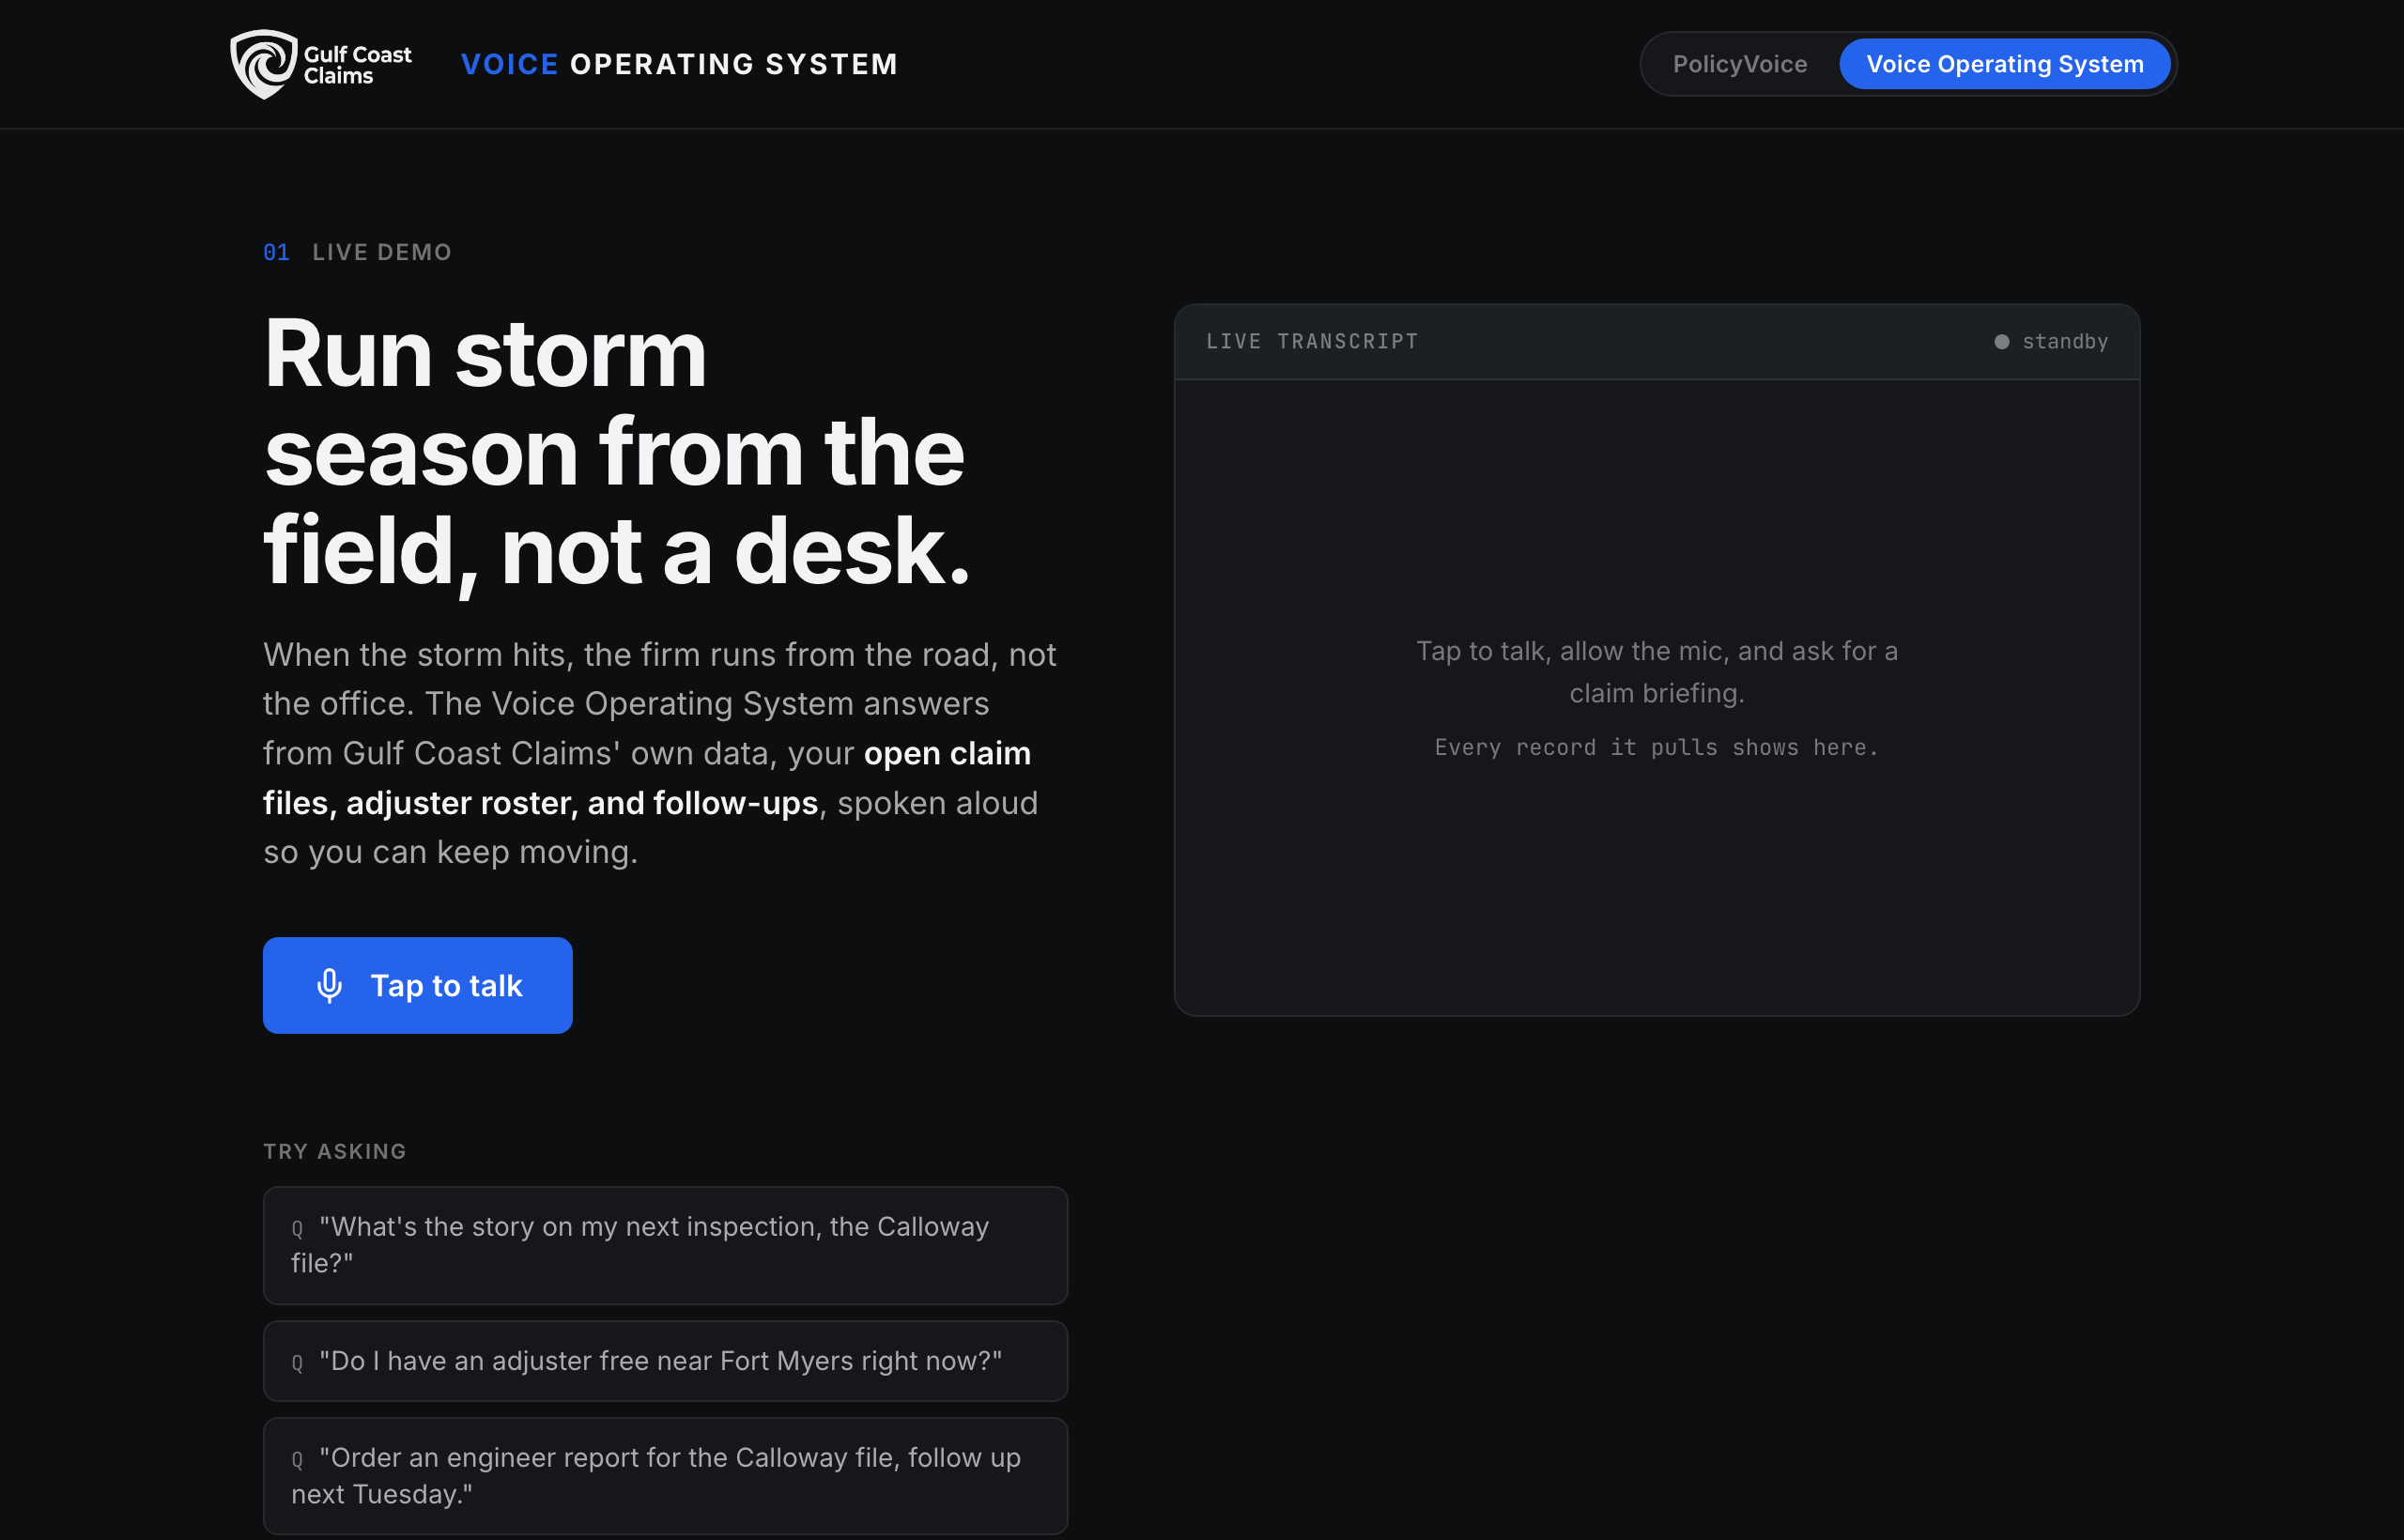
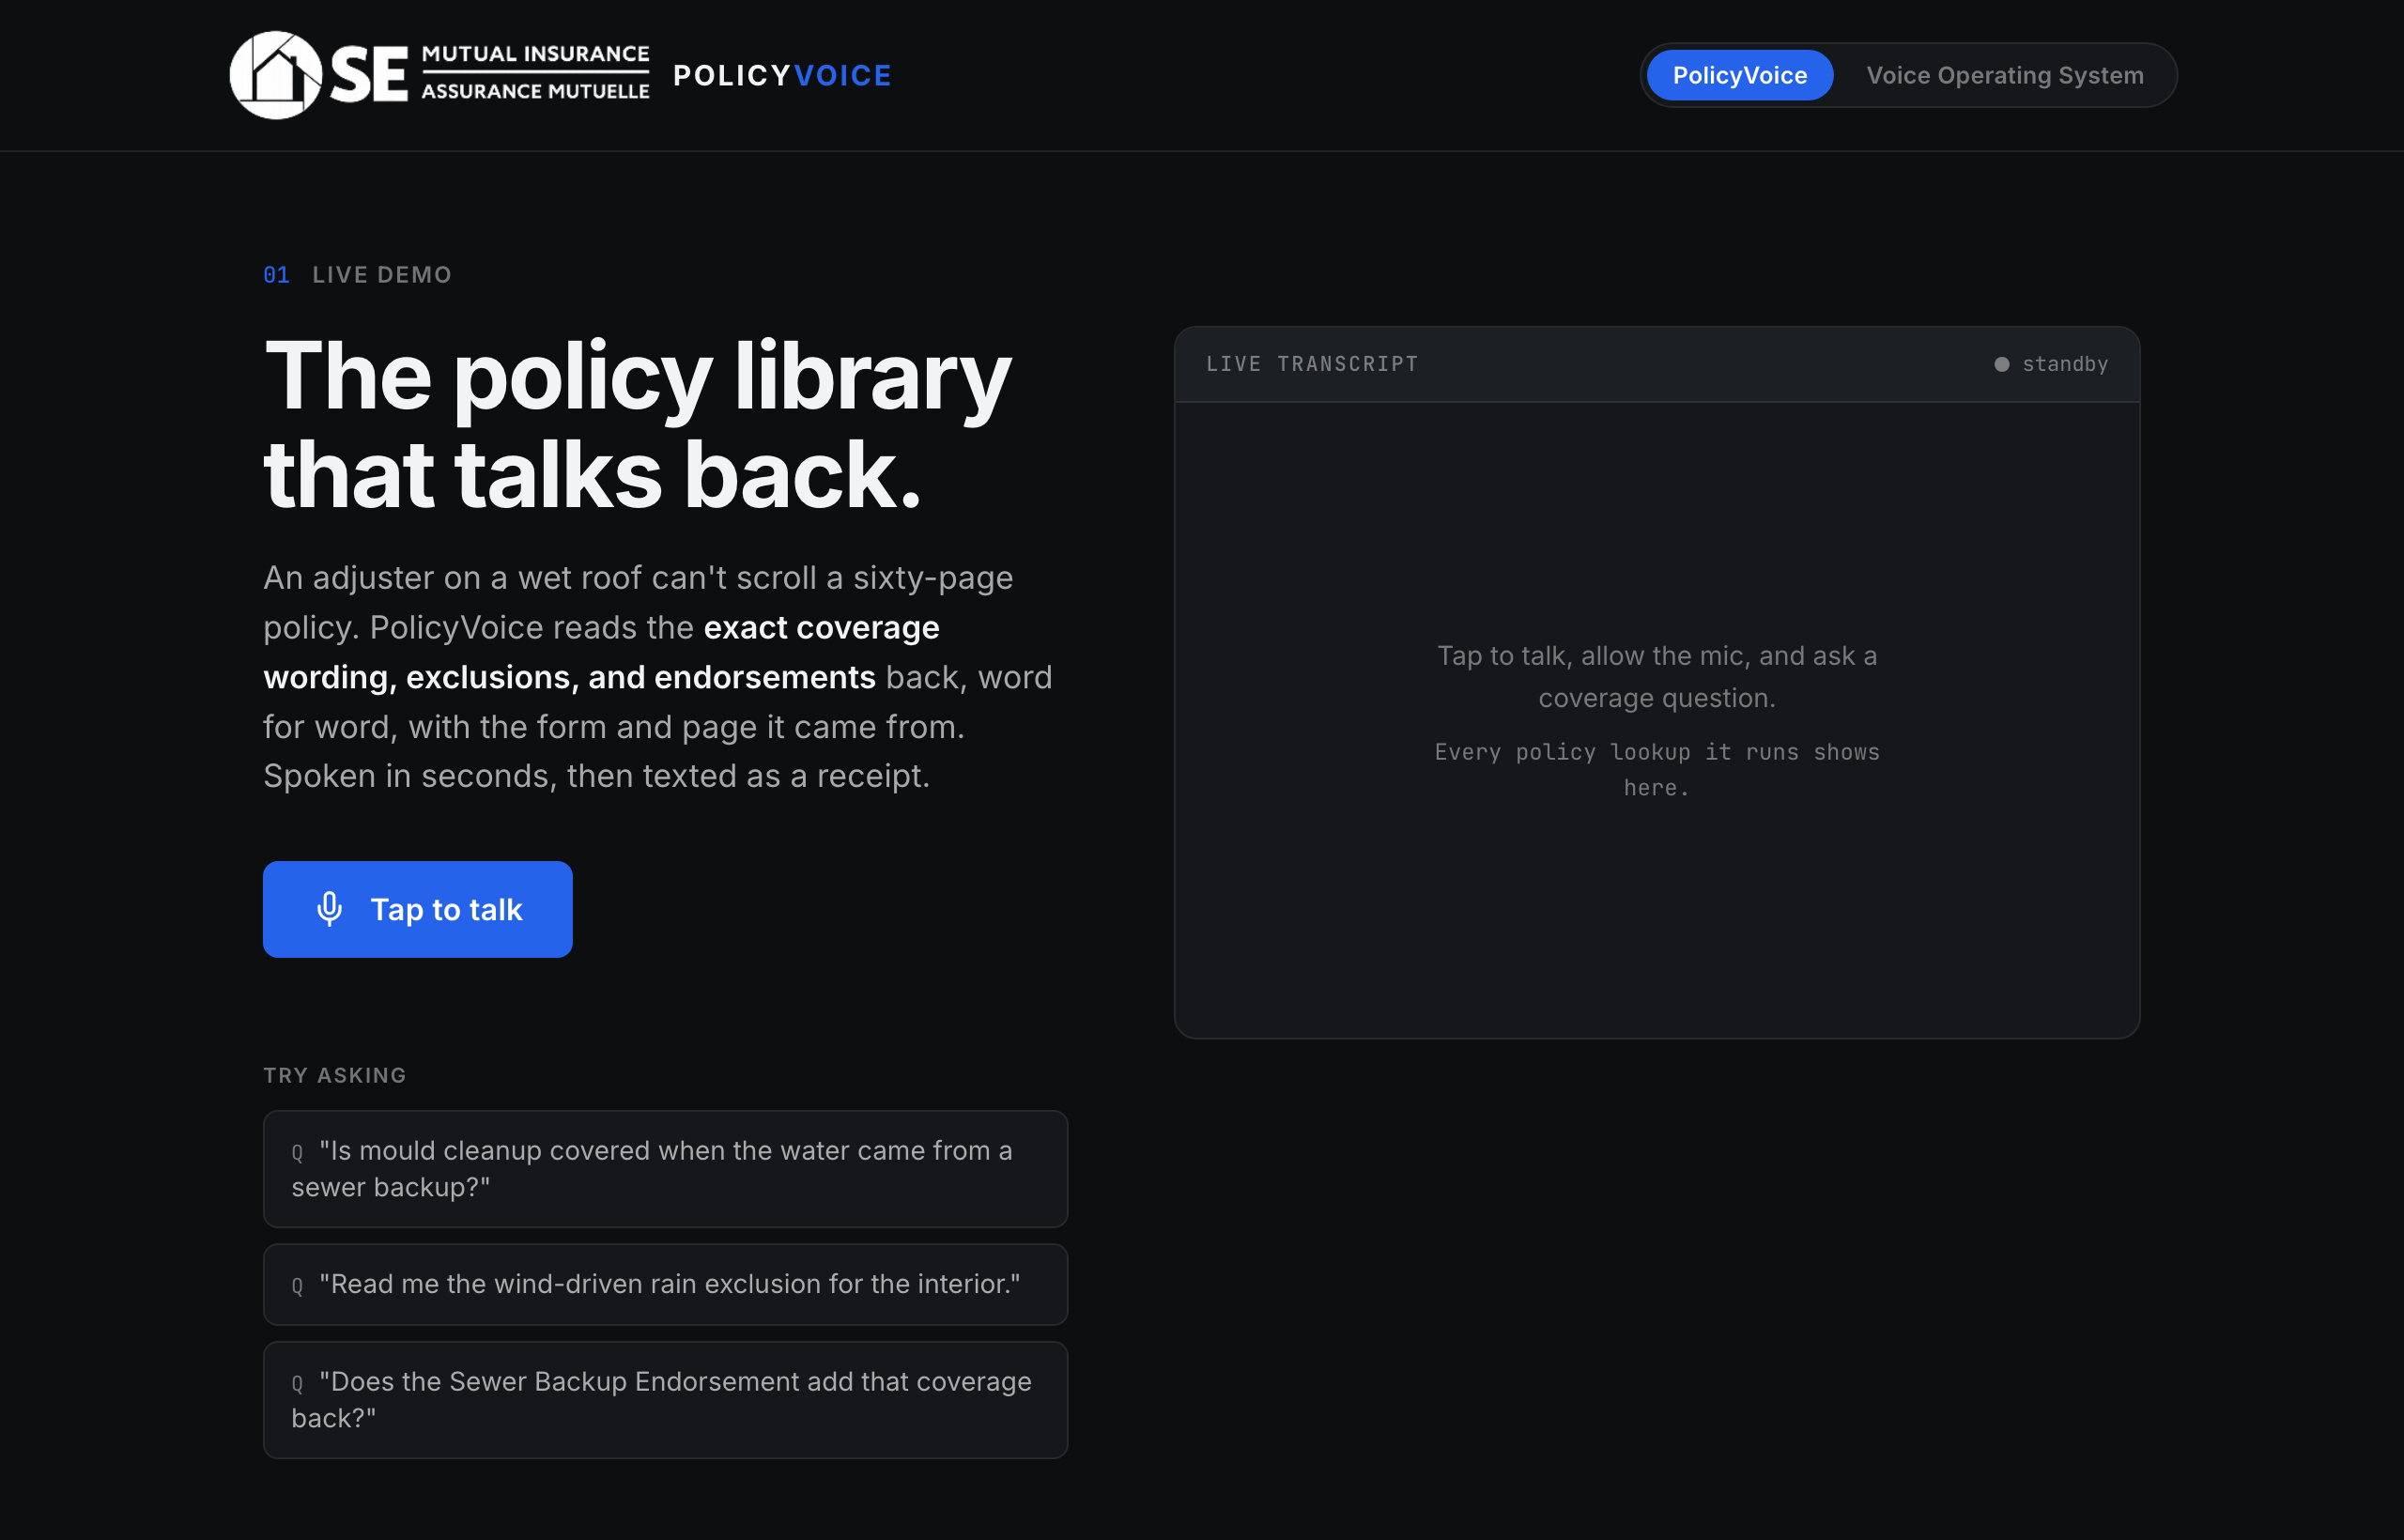
Rebrand to SE Mutual (Atlantic Canada) for persona consistency
Align the whole demo to the real policy it reads (SE Mutual NB homeowner
policy), replacing the Gulf Coast / Florida persona:

- SE Mutual logo in the header (flat source, made transparent + trimmed).
- Org, page copy, Voice OS prompt, configure examples, and docs now SE Mutual.
- Voice OS claims data are SE Mutual policies (homeowner + farm), Maritime
  locations, claim prefix SEM-; roster relicensed to NB/NS/PEI.
- Removed em-dashes from shipped page text (per preference).
- README screenshot recaptured.

diff --git a/index.html b/index.html
@@ -5,7 +5,7 @@
   <meta name="viewport" content="width=device-width, initial-scale=1.0" />
   <meta name="color-scheme" content="dark" />
   <meta name="theme-color" content="#0D0E10" />
-  <title>PolicyVoice — The policy library that talks back.</title>
+  <title>PolicyVoice: The policy library that talks back.</title>
   <meta name="description" content="PolicyVoice is a live demo of voice access to insurance policy wording: coverage clauses, exclusions, and endorsements, read back word for word for adjusters in the field." />
   <link rel="preconnect" href="https://fonts.googleapis.com" />
   <link rel="preconnect" href="https://fonts.gstatic.com" crossorigin />
@@ -65,7 +65,7 @@
       text-transform: uppercase;
     }
     .wordmark .vc { color: var(--accent); }
-    .wordmark .brand-logo { height: 40px; width: auto; display: block; }
+    .wordmark .brand-logo { height: 52px; width: auto; display: block; }
     .header-tag {
       font-family: var(--mono); font-size: 11px;
       letter-spacing: 0.04em;
@@ -343,7 +343,7 @@
 
   <header>
     <div class="wrap header-inner">
-      <div class="wordmark" id="wordmark"><img class="brand-logo" src="assets/gulf-coast-claims-logo.png" alt="Gulf Coast Claims" /><span class="brand-name">Policy<span class="vc">Voice</span></span></div>
+      <div class="wordmark" id="wordmark"><img class="brand-logo" src="assets/se-mutual-logo.png" alt="SE Mutual Insurance" /><span class="brand-name">Policy<span class="vc">Voice</span></span></div>
       <div class="tabs" role="tablist">
         <button class="tab active" id="tab-shopvoice" role="tab" onclick="showView('shopvoice')">PolicyVoice</button>
         <button class="tab" id="tab-invan" role="tab" onclick="showView('invan')">Voice Operating System</button>
@@ -365,7 +365,7 @@
         <div class="hero-grid">
           <div>
             <h1>The policy library that talks back.</h1>
-            <p class="lede">An adjuster on a wet roof can't scroll a sixty-page policy. PolicyVoice reads the <strong>exact coverage wording, exclusions, and endorsements</strong> back — word for word, with the form and page it came from — spoken in seconds, then texted as a receipt.</p>
+            <p class="lede">An adjuster on a wet roof can't scroll a sixty-page policy. PolicyVoice reads the <strong>exact coverage wording, exclusions, and endorsements</strong> back, word for word, with the form and page it came from. Spoken in seconds, then texted as a receipt.</p>
 
             <div class="mic-row">
               <button id="sv-callBtn" class="mic-btn" onclick="toggleCall('shopvoice')">
@@ -495,7 +495,7 @@
         <div class="hero-grid">
           <div>
             <h1>Run storm season from the field, not a desk.</h1>
-            <p class="lede">When the storm hits, the firm runs from the road, not the office. The Voice Operating System answers from Gulf Coast Claims' own data, your <strong>open claim files, adjuster roster, and follow-ups</strong>, spoken aloud so you can keep moving.</p>
+            <p class="lede">When the storm hits, the claims team runs from the road, not the office. The Voice Operating System answers from SE Mutual's own data, your <strong>open claim files, adjuster roster, and follow-ups</strong>, spoken aloud so you can keep moving.</p>
 
             <div class="mic-row">
               <button id="iv-callBtn" class="mic-btn" onclick="toggleCall('invan')">
@@ -508,7 +508,7 @@
             <div class="try-label">Try asking</div>
             <div class="chips">
               <button class="chip" onclick="chipTap('invan')"><span class="q">Q</span>"What's the story on my next inspection, the Calloway file?"</button>
-              <button class="chip" onclick="chipTap('invan')"><span class="q">Q</span>"Do I have an adjuster free near Fort Myers right now?"</button>
+              <button class="chip" onclick="chipTap('invan')"><span class="q">Q</span>"Do I have an adjuster free near Moncton right now?"</button>
               <button class="chip" onclick="chipTap('invan')"><span class="q">Q</span>"Order an engineer report for the Calloway file, follow up next Tuesday."</button>
             </div>
           </div>
@@ -550,7 +550,7 @@
                 <div class="avatar">VO</div>
                 <div>
                   <div class="pb-name">Voice Operating System</div>
-                  <div class="pb-sub">Gulf Coast Claims data</div>
+                  <div class="pb-sub">SE Mutual claims data</div>
                 </div>
               </div>
               <div class="chat" id="iv-chatThread">
@@ -560,7 +560,7 @@
                 <div class="tray-label">Tap to send a text</div>
                 <div class="tray-chips" id="iv-trayChips">
                   <button class="tray-chip" onclick="sendSim('invan', 0)"><span class="q">Q</span>What's the story on my next inspection, the Calloway file?</button>
-                  <button class="tray-chip" onclick="sendSim('invan', 1)"><span class="q">Q</span>Do I have an adjuster free near Fort Myers?</button>
+                  <button class="tray-chip" onclick="sendSim('invan', 1)"><span class="q">Q</span>Do I have an adjuster free near Moncton?</button>
                   <button class="tray-chip" onclick="sendSim('invan', 2)"><span class="q">Q</span>Order an engineer report for the Calloway file, follow up Tuesday.</button>
                 </div>
               </div>
@@ -589,7 +589,7 @@
           <div class="fit-row">
             <div>
               <h3 class="fit-name"><span class="idx">B</span>Storm-season deployment desk</h3>
-              <p class="fit-why">When your team swells from 75 to 300 adjusters across three states, it answers who's available, who's overloaded, and where the open files are, without anyone stopping to tap through a dashboard.</p>
+              <p class="fit-why">When your team swells from 75 to 300 adjusters across the Maritimes, it answers who's available, who's overloaded, and where the open files are, without anyone stopping to tap through a dashboard.</p>
             </div>
             <div class="fit-owner">
               <span class="routes">Routes to</span>
@@ -630,7 +630,7 @@
     const APPS = {
       shopvoice: {
         key: "shopvoice",
-        wordmark: '<img class="brand-logo" src="assets/gulf-coast-claims-logo.png" alt="Gulf Coast Claims" /><span class="brand-name">Policy<span class="vc">Voice</span></span>',
+        wordmark: '<img class="brand-logo" src="assets/se-mutual-logo.png" alt="SE Mutual Insurance" /><span class="brand-name">Policy<span class="vc">Voice</span></span>',
         speaker: "PolicyVoice",
         userLabel: "Adjuster",
         assistantId: "aaadf407-d963-42d7-9af9-94a165998c80",
@@ -663,7 +663,7 @@
       },
       invan: {
         key: "invan",
-        wordmark: '<img class="brand-logo" src="assets/gulf-coast-claims-logo.png" alt="Gulf Coast Claims" /><span class="brand-name"><span class="vc">Voice</span> Operating System</span>',
+        wordmark: '<img class="brand-logo" src="assets/se-mutual-logo.png" alt="SE Mutual Insurance" /><span class="brand-name"><span class="vc">Voice</span> Operating System</span>',
         speaker: "Voice OS",
         userLabel: "Operator",
         assistantId: "6a919715-972e-4993-a145-3ec11c668a36",
@@ -681,16 +681,16 @@
         sims: [
           { q: "What's the story on my next inspection, the Calloway file?",
             lookup: "Claim files",
-            a: "Claim GCC-2287, Calloway residence in Cape Coral. Insurer Citizens, HO-3 form. Wind and water loss from Hurricane Lina, reported October 9th. Inspection scheduled today. Sworn proof of loss is due in 12 days. Assigned to Marcus Reed. Note: homeowner is asking about mold from a sewer backup.",
-            cite: "Source: Claim files · GCC-2287." },
-          { q: "Do I have an adjuster free near Fort Myers?",
+            a: "Claim SEM-2287, Calloway residence in Moncton. SE Mutual Homeowner's Package. Wind and water loss from post-tropical storm Odette, reported September 24th. Inspection scheduled today. Sworn proof of loss is due in 12 days. Assigned to Marcus Reed. Note: homeowner is asking about water from a sewer backup.",
+            cite: "Source: Claim files · SEM-2287." },
+          { q: "Do I have an adjuster free near Moncton?",
             lookup: "Adjuster roster",
-            a: "Two available in Fort Myers. Dana Ortiz, licensed in Florida, two open files. And Priya Shah, licensed in Florida and Georgia, one open file. Marcus Reed is in the area but he's full at thirty files.",
-            cite: "Source: Adjuster roster · Fort Myers region." },
+            a: "Two available near Moncton. Dana Ortiz, licensed in New Brunswick, two open files. And Priya Shah, licensed in New Brunswick and Nova Scotia, one open file. Marcus Reed is in the area but he's full at thirty files.",
+            cite: "Source: Adjuster roster · Moncton region." },
           { q: "Order an engineer report for the Calloway file, follow up Tuesday.",
             lookup: "Task capture",
-            a: "Logged: order an engineer report for claim GCC-2287, Calloway residence, follow up next Tuesday. Saved to the file's follow-ups.",
-            cite: "Source: Task capture · written to claim GCC-2287." }
+            a: "Logged: order an engineer report for claim SEM-2287, Calloway residence, follow up next Tuesday. Saved to the file's follow-ups.",
+            cite: "Source: Task capture · written to claim SEM-2287." }
         ],
         simBusy: false, simStarted: false
       }
@@ -725,7 +725,7 @@
     function ensureVapiReady() {
       if (window.VapiSDK) return Promise.resolve();
       return new Promise((resolve, reject) => {
-        const timer = setTimeout(() => reject(new Error("Voice SDK failed to load — check your connection")), 15000);
+        const timer = setTimeout(() => reject(new Error("Voice SDK failed to load. Check your connection")), 15000);
         window.addEventListener("vapi-sdk-ready", () => { clearTimeout(timer); resolve(); }, { once: true });
       });
     }
@@ -741,7 +741,7 @@
       });
       vapi.on("error", (err) => {
         console.error("Vapi error:", err);
-        if (activeApp) showCallError(activeApp, err?.message || err?.error?.message || "Call error — see console");
+        if (activeApp) showCallError(activeApp, err?.message || err?.error?.message || "Call error. See console");
         callState = "idle"; updateCallUI();
       });
       vapi.on("message", (msg) => {
@@ -773,7 +773,7 @@
       if (callState === "connecting") return;
 
       if (!app.assistantId || app.assistantId.includes("PLACEHOLDER")) {
-        showCallError(app, "Voice not wired up yet — run configure-invan-system.js, then paste the assistant ID into APPS.invan.assistantId.");
+        showCallError(app, "Voice not wired up yet. Run configure-invan-system.js, then paste the assistant ID into APPS.invan.assistantId.");
         return;
       }
 
@@ -816,14 +816,14 @@
         readout.classList.remove("live"); stateLabel.textContent = "standby";
       } else if (callState === "connecting") {
         setBtn(app, "mic-btn", MIC_SVG + "<span>Connecting…</span>");
-        status.textContent = "Asking for mic permission — first call can take ~30s while the backend wakes.";
+        status.textContent = "Asking for mic permission. First call can take ~30s while the backend wakes.";
         readout.classList.remove("live"); stateLabel.textContent = "connecting…";
       } else if (callState === "active") {
-        setBtn(app, "mic-btn live", '<span class="pulse"></span><span>Listening — tap to end</span>');
-        status.textContent = "Connected. Speak normally — headphones help with echo.";
+        setBtn(app, "mic-btn live", '<span class="pulse"></span><span>Listening, tap to end</span>');
+        status.textContent = "Connected. Speak normally, headphones help with echo.";
         readout.classList.add("live"); stateLabel.textContent = "live";
       } else if (callState === "ended") {
-        setBtn(app, "mic-btn", MIC_SVG + "<span>Call ended — tap to restart</span>");
+        setBtn(app, "mic-btn", MIC_SVG + "<span>Call ended, tap to restart</span>");
         status.textContent = "";
         readout.classList.remove("live"); stateLabel.textContent = "standby";
       }

diff --git a/configure-invan-system.js b/configure-invan-system.js
@@ -30,7 +30,7 @@ function assistantConfig(systemPrompt) {
               properties: {
                 claim: {
                   type: 'string',
-                  description: "The claim the operator named — a claim number like 'GCC-2287', a claimant like 'the Calloway file', or a location like 'Naples'."
+                  description: "The claim the operator named — a claim number like 'SEM-2287', a claimant like 'the Calloway file', or a location like 'Fredericton'."
                 }
               },
               required: ['claim']
@@ -55,7 +55,7 @@ function assistantConfig(systemPrompt) {
               properties: {
                 region: {
                   type: 'string',
-                  description: "The area the operator named, e.g. 'Fort Myers', 'Naples', 'Tampa'."
+                  description: "The area the operator named, e.g. 'Moncton', 'Saint John', 'Halifax'."
                 }
               },
               required: ['region']
@@ -78,7 +78,7 @@ function assistantConfig(systemPrompt) {
             parameters: {
               type: 'object',
               properties: {
-                claim: { type: 'string', description: "Claim the task is for, if named (e.g. 'GCC-2287' or 'the Calloway file')." },
+                claim: { type: 'string', description: "Claim the task is for, if named (e.g. 'SEM-2287' or 'the Calloway file')." },
                 task: { type: 'string', description: "The thing to do (e.g. 'order an engineer report')." },
                 action: { type: 'string', description: "What kind of action (e.g. 'order', 'follow up', 'dispatch', 'note')." },
                 date: { type: 'string', description: "Any timing the operator gave (e.g. 'next Tuesday')." }

diff --git a/CLAUDE.md b/CLAUDE.md
@@ -1,7 +1,7 @@
 # CLAUDE.md — project memory for PolicyVoice + Voice Operating System
 
 Two voice-AI demo products in one page for an independent insurance claims firm
-(stand-in customer: **Gulf Coast Claims**). Architecture and endpoints live in
+(stand-in customer: **SE Mutual**, the Atlantic Canada insurer whose policy is loaded). Architecture and endpoints live in
 `README.md`; this file is the "what you need to know to work on it" layer.
 
 This project was repurposed from a Snap-on auto-shop demo (ShopVoice + In-Van
@@ -51,9 +51,10 @@ so "word for word" is a design requirement, not a nice-to-have.
 
 - Accent is blue (`--accent: #2563EB`) to match the pitch deck. A few hardcoded
   `rgba(37,99,235,...)` values in the CSS mirror the accent; change them together.
-- Wordmark on both tabs: `Gulf Coast Claims` + the product name.
-- `assets/snap-on-logo.png` is a leftover from the clone, not referenced by the
-  page (the wordmark is text). Safe to delete; left in place for now.
+- Wordmark on both tabs is the SE Mutual logo image (`assets/se-mutual-logo.png`,
+  trimmed + made transparent via PIL from the source) next to the product name.
+- `assets/snap-on-logo.png` and `assets/gulf-coast-claims-logo.png` are leftover
+  images from earlier brands, not referenced by the page. Safe to delete.
 
 ## Live deployment
 

diff --git a/README.md b/README.md
@@ -2,9 +2,9 @@
 
 **The policy library that talks back.** A forwardable voice-AI demo for independent insurance claims firms. An adjuster on a storm-damaged roof calls one line, asks a coverage question out loud, and hears the **exact policy wording read back word for word**, with the form and page it came from. Never a summary, never a coverage call. The page is built to explain itself in about 90 seconds without anyone presenting it.
 
-![Demo page — Gulf Coast Claims, the Voice Operating System tab](docs/screenshot.png)
+![Demo page — SE Mutual, PolicyVoice tab](docs/screenshot.png)
 
-Stand-in customer: **Gulf Coast Claims**, an independent claims firm. The page has two products on one backend:
+Stand-in customer: **SE Mutual**, a mutual property insurer in Atlantic Canada (New Brunswick) — the insurer whose policy PolicyVoice reads. The page has two products on one backend:
 
 1. **PolicyVoice** (default tab) — voice over insurance policy wording: coverage clauses, exclusions, and endorsements, read back verbatim for adjusters in the field.
 2. **Voice Operating System** (second tab) — voice over the firm's own operations data: claim-file briefings, the adjuster roster, and follow-up capture, for the owner running storm season from the road.